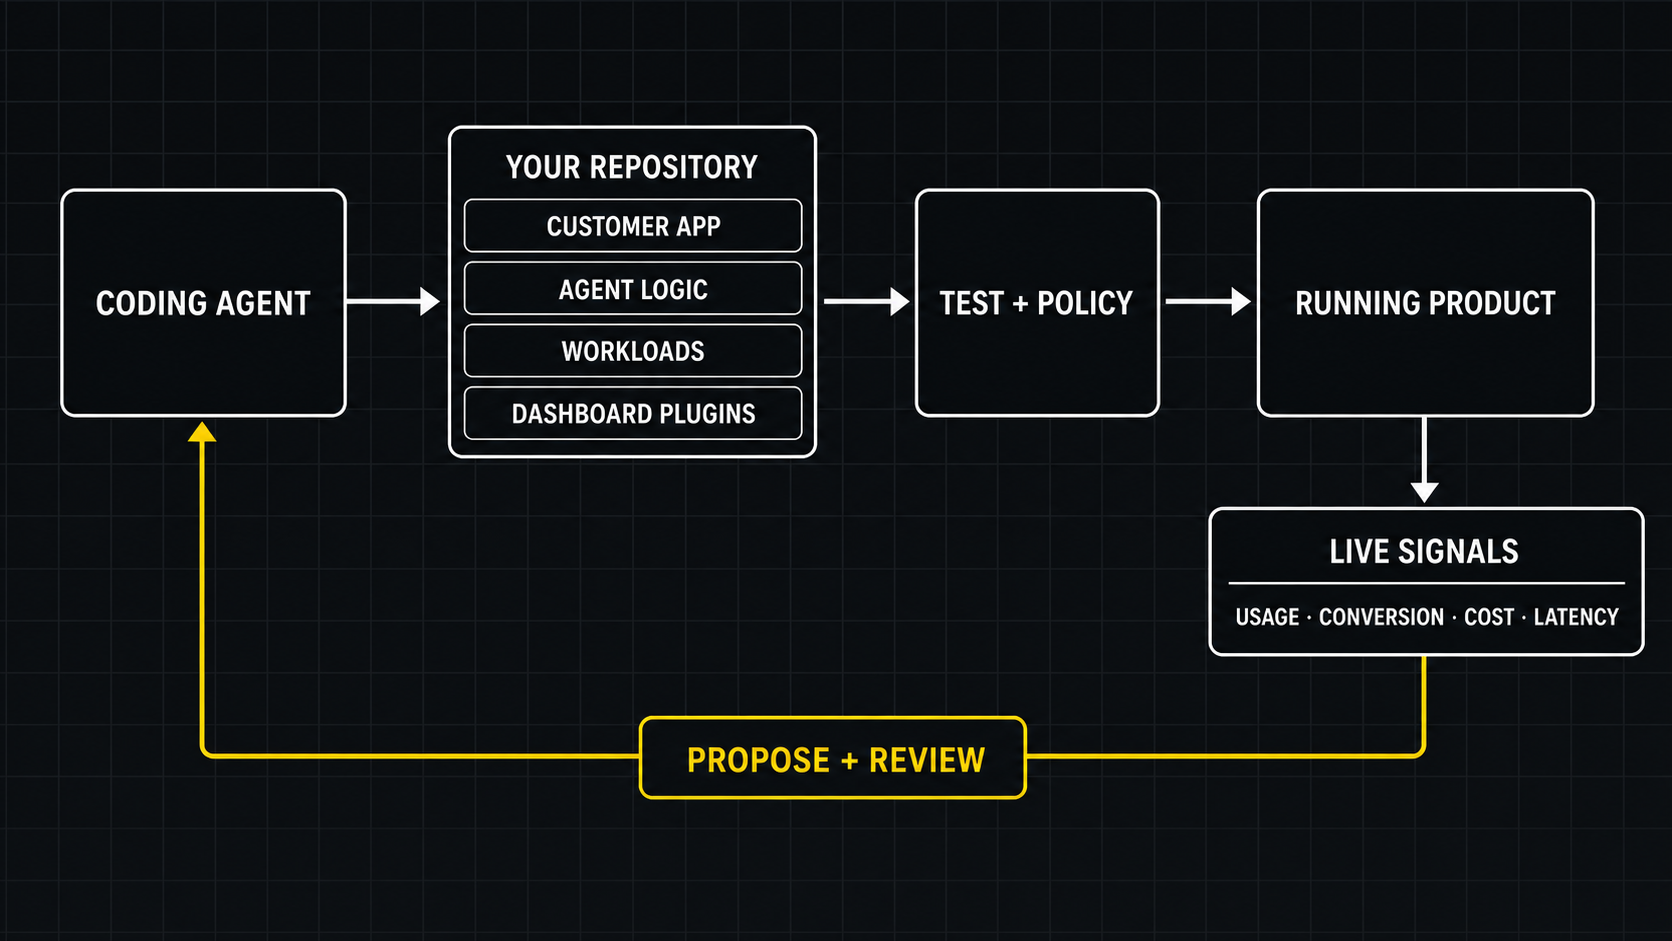
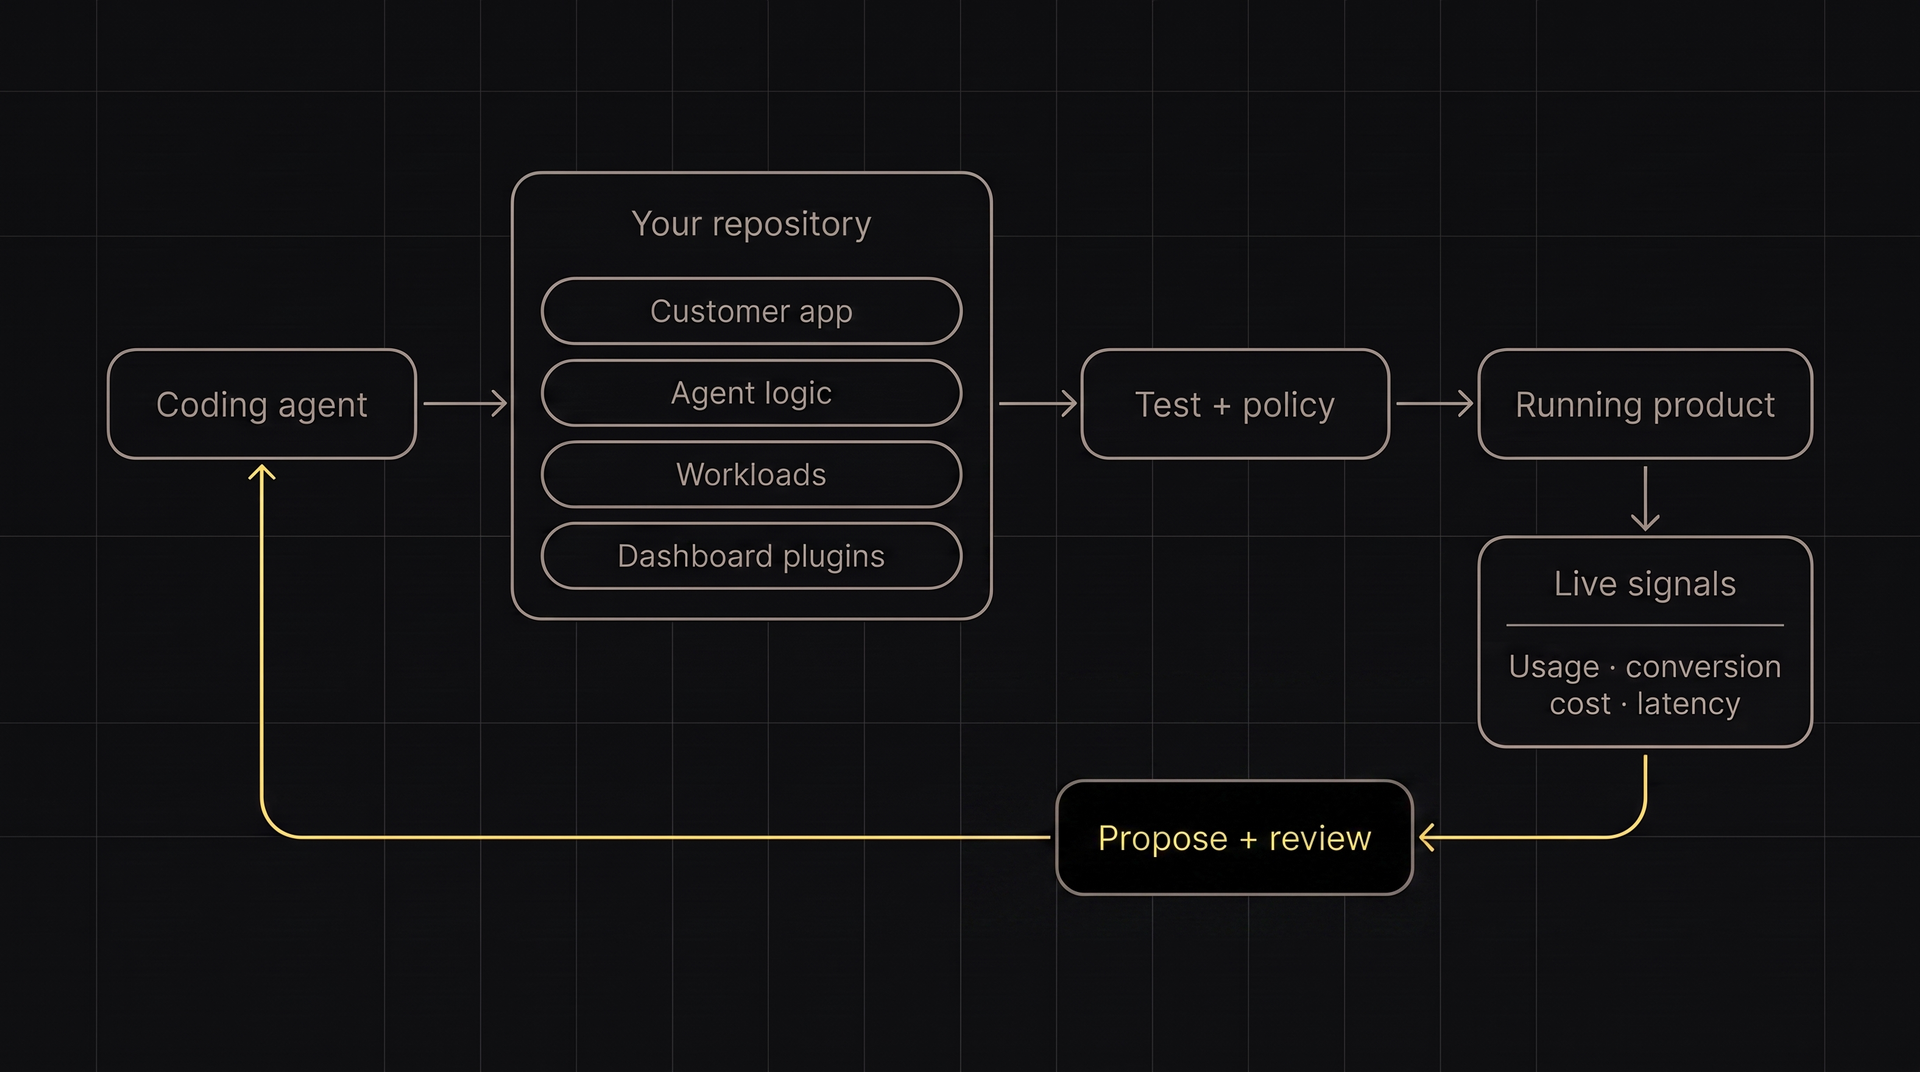
docs: clarify the complete backend boundary

diff --git a/README.md b/README.md
@@ -5,9 +5,9 @@
 ### The backend for agent-built, agent-powered SaaS.
 
 **Think Supabase for agentic SaaS—with the AI runtime and operating plane
-included.** Auth, Postgres, model routing, agent execution, sandbox adapters,
-durable jobs, billing, cost controls, and observability are wired together in
-one open-source, self-hosted stack.
+included.** Auth, Postgres, model routing, agent execution, sandboxed execution,
+browser automation, durable jobs, billing, cost controls, and observability are
+wired together in one open-source, self-hosted stack.
 
 Give a coding agent (Codex, Claude Code, Gemini CLI, OpenCode, or another coding
 harness) a backend, not a blank repo. Build the product without assembling the
@@ -22,9 +22,9 @@ AI infrastructure. Own the code, data, and deployment.
 </div>
 
 <div align="center">
-  <img src="docs/assets/readme/hero-control-plane.png" alt="A product connects through a backend control plane with application-backend, AI-runtime, and operating-plane layers to pluggable infrastructure" width="1000" />
+  <img src="docs/assets/readme/hero-control-plane.png" alt="A product and coding agent connect to a complete backend control plane containing the application backend, AI runtime, sandbox, browser, billing, security, and operations" width="1000" />
   <br />
-  <sub>Application backend, AI runtime, and operating controls—one abstraction over models, data, sandboxes, and browsers.</sub>
+  <sub>Included and wired: auth, data, AI runtime, jobs, billing, sandbox, browser, security, and operations.</sub>
 </div>
 
 ## Quickstart
@@ -225,7 +225,7 @@ and your own threat model. Start with [deployment guidance](docs/deploy.md),
 ## How it fits together
 
 <div align="center">
-  <img src="docs/assets/readme/architecture.png" alt="A layered backend control plane connects product APIs, SDKs, and an admin dashboard to data, models, agents, tools, sandbox, and browser infrastructure" width="1000" />
+  <img src="docs/assets/readme/architecture.png" alt="A self-hosted backend control plane includes product interfaces, identity, data, model gateway, agent runtime, jobs, billing, sandbox, browser, and observability services" width="1000" />
 </div>
 
 Every app-level model call should go through `/api/v1/llm/*`. Direct provider
